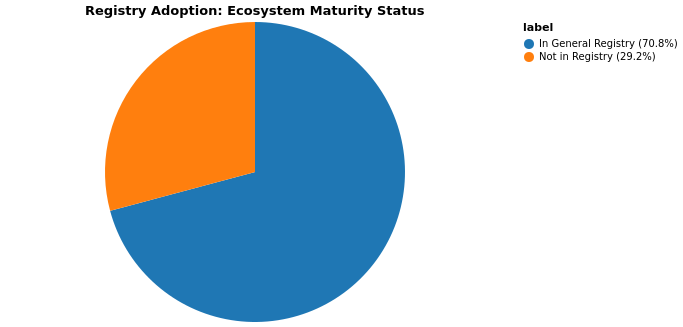
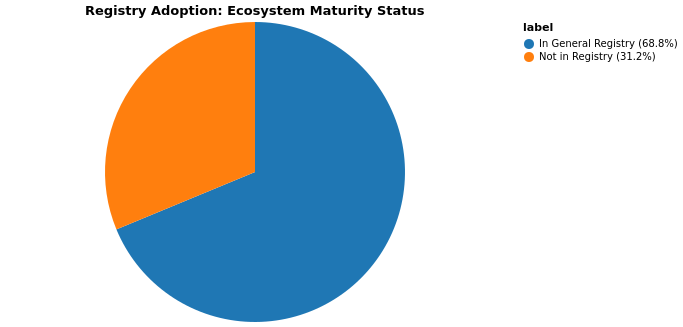
general registry updated

diff --git a/docs/JuliaHealthBlog/posts/indu-juliahealth-audit/juliahealth-audit.html b/docs/JuliaHealthBlog/posts/indu-juliahealth-audit/juliahealth-audit.html
@@ -245,12 +245,12 @@ ul.task-list li input[type="checkbox"] {
 </section>
 <section id="general-registry-status" class="level2">
 <h2 class="anchored" data-anchor-id="general-registry-status">General Registry Status</h2>
-<p>The General Registry is Julia’s central package repository that makes packages easily discoverable and installable via the built-in package manager. Being registered means users can simply run <code>using PackageName</code> or <code>] add PackageName</code> without needing to know the GitHub URL. Out of 48 packages, <strong>34 are registered</strong> in the General Registry (79%), while <strong>14 remain unregistered</strong> (21%).</p>
+<p>The General Registry is Julia’s central package repository that makes packages easily discoverable and installable via the built-in package manager. Being registered means users can simply run <code>using PackageName</code> or <code>] add PackageName</code> without needing to know the GitHub URL. Out of 48 packages, <strong>33 are registered</strong> in the General Registry, while <strong>15 remain unregistered</strong>.</p>
 <br>
 <div style="text-align: center;">
 <p><img src="./images/packages_registry_status.png" class="img-fluid"></p>
 </div>
-<p><strong>Packages NOT in General Registry (14):</strong></p>
+<p><strong>Packages NOT in General Registry:</strong></p>
 <ul>
 <li>CTakesParser.jl</li>
 <li>CloToP.jl</li>
@@ -273,7 +273,6 @@ ul.task-list li input[type="checkbox"] {
 <li>DICOMTree.jl</li>
 <li>MedEval3D.jl</li>
 <li>MedPipe3D.jl</li>
-<li>NCEI.jl</li>
 <li>NeuroAnalyzer.jl</li>
 <li>OMOPVocabMapper.jl</li>
 </ul>

diff --git a/docs/JuliaHealthBlog/index.html b/docs/JuliaHealthBlog/index.html
@@ -238,7 +238,7 @@ window.Quarto = {
   </div>
 </div>
 <div class="list quarto-listing-default">
-<div class="quarto-post image-right" data-index="0" data-categories="anVsaWElMkNhdWRpdCUyQ2Vjb3N5c3RlbQ==" data-listing-date-sort="1769106600000" data-listing-file-modified-sort="1770132641069" data-listing-date-modified-sort="NaN" data-listing-reading-time-sort="11" data-listing-word-count-sort="2076">
+<div class="quarto-post image-right" data-index="0" data-categories="anVsaWElMkNhdWRpdCUyQ2Vjb3N5c3RlbQ==" data-listing-date-sort="1769106600000" data-listing-file-modified-sort="1770191763131" data-listing-date-modified-sort="NaN" data-listing-reading-time-sort="11" data-listing-word-count-sort="2072">
 <div class="thumbnail">
 <p><a href="../JuliaHealthBlog/posts/indu-juliahealth-audit/juliahealth-audit.html" class="no-external"></a></p><a href="../JuliaHealthBlog/posts/indu-juliahealth-audit/juliahealth-audit.html" class="no-external">
 <p class="card-img-top"><img src="posts\indu-juliahealth-audit\images\packages_docs_audit_coverage.png" style="height: 0;"  class="thumbnail-image card-img"/></p>
